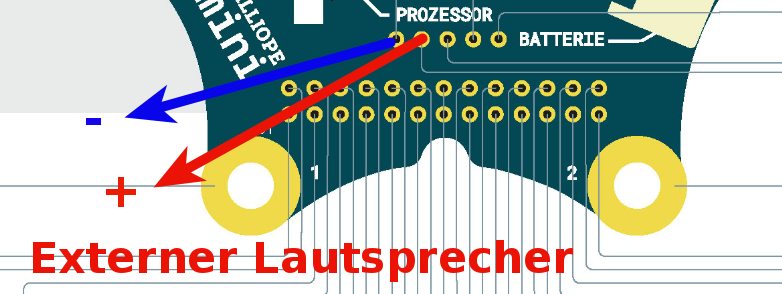
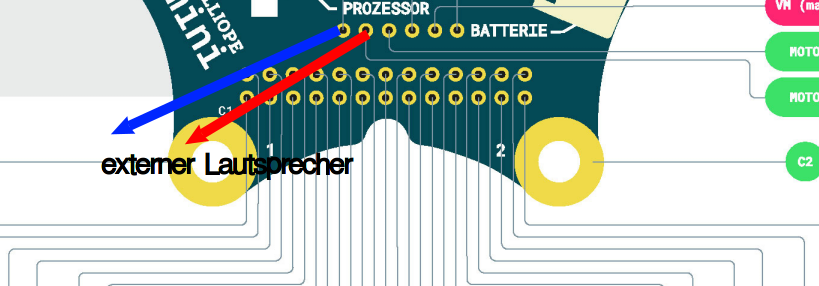
Vorbereitung Tag 5

diff --git a/08_Tag5/08_01_Auffrischen/README.md b/08_Tag5/08_01_Auffrischen/README.md
@@ -117,7 +117,7 @@ Wenn wir diese Schleife benutzen und unser Programm entsprechend umgestalten, si
 * Seht Ihr einen Unterschied?
 
 
-## Warum diese Änderung 
+## Warum diese Aenderung 
 
 * Wir sehen kaum einen Unterschied
 * Aber wir haben nur 25 anstatt 255 Schleifendurchläufe
@@ -143,7 +143,7 @@ Wenn wir diese Schleife benutzen und unser Programm entsprechend umgestalten, si
 
 
 
-# Hausaufgabe 2 : Display füllen
+# Hausaufgabe 2 : Display fuellen
 
 ## Zeichen X Wert Y Wert 
 
@@ -186,7 +186,7 @@ Damit kann man einzelne LEDs auf unserem 5 x 5 LED-Bildschirm einschalten.
 
 * Auch hier wieder - wie oft beim Programmieren : es geht bei 0 los !
 
-## Eine Zeile füllen  
+## Eine Zeile fuellen  
 
 * Nun beschränken wir uns also auf eine Zeile in unserer LED-Anzeige
 * Wir zeichnen einen Punkt nach dem anderen
@@ -214,7 +214,7 @@ Damit kann man einzelne LEDs auf unserem 5 x 5 LED-Bildschirm einschalten.
 
 
 
-## Nächster Versuch, Ganzer Bildschirm
+## Naechster Versuch, Ganzer Bildschirm
 
 * Nun können wir also mit einer Schleife eine Zeile füllen, durch die Index-Schleife wird die Zeile __spaltenweise__ gefüllt
 * Wir wollen aber immnoch den ganzen Bildschirm einzeln mit LEDs füllen.
@@ -243,14 +243,14 @@ Damit kann man einzelne LEDs auf unserem 5 x 5 LED-Bildschirm einschalten.
 
 
 
-## Fünf fast identische Codestücke
+## Fuenf fast identische Codestuecke
 
 Was wir aber immer noch haben, sind 5 fast gleich aussehende Schleifen.  Und diese 5-fache Wiederholung wollen wir nun durch eine zweite, verschachtelte Schleife ersetzen.
 
 ![ Zwei verschachtelte Schleifen](./pics/05_ZweiVerschachtelteSchleifen.png){height=60%}
 
  
-## "Böser" Auftrag-Geber 
+## "Boeser" Auftrag-Geber 
 
 \colA{6cm}
 
@@ -264,7 +264,7 @@ Nehmt an, Ihr hättet die Schleife noch nicht kennengelernt, und hättet die Auf
 \colEnd
 
 
-## "Böser" Auftrag-Geber 2
+## "Boeser" Auftrag-Geber 2
 
 Nun kommt der Auftrag-Geber und möchte nun doch lieber anstatt zeilenweise den Bildschirm zu füllen, diesen spaltenweise gefüllt haben.
 
@@ -275,15 +275,8 @@ Wollt Ihr es versuchen?
  
  Ich würde lieber die Variante mit den Schleifen nehmen und dort nur die zwei Schleifen bzw die beiden Index-Variable vertauschen!
  
-## "Böser" Auftrag-Geber 3
+## "Boeser" Auftrag-Geber 3
 
 ![ Zwei verschachtelte Schleifen](./pics/06_ZweiVerschachtelteSchleifen.png){height=60%}
  
-
-
-## Lizenz/Copyright-Info
-Für alle Bilder auf diesen Folien/Seiten gilt:
-
-* Autor: Jörg Künstner
-* Lizenz: CC BY-SA 4.0
 

diff --git a/08_Tag5/08_05_ExternerLautsprecher/README.md b/08_Tag5/08_05_ExternerLautsprecher/README.md
@@ -28,25 +28,25 @@ Diese zusätzliche Batterie
 Die zusätzliche Batterie wird an den beiden rechten Pins angeschlossen, ganz aussen Plus, daneben Minus.
 
 Auf dem offiziellen Bild des Calliope sieht man das ganz gut:
- 
+
 Quelle Bild nächste Seite : 
 
-https://calliope-mini.github.io/assets/v10/img/Calliope_mini_1.0_pinout_fin.jpg:
- 
+https://calliope-mini.github.io/assets/v10/img/Calliope_mini_1.3_pinout_fin.jpg:
+
 ## Offizielles Bild  
 
-![](pics/Calliope_mini_1.0_pinout_fin.jpg){height=95%}
+![](pics/Calliope_mini_1.3_pinout_fin.jpg){height=95%}
 
 ## Detail-Auschnitt
- 
- Hier nochmal ein Ausschnitt daraus, mit den Anschlüssen farbig gekennzeihnet:
+
+ Hier nochmal ein Ausschnitt daraus, mit den Anschlüssen für die Batterie farbig gekennzeihnet:
 
  ![Ausschnitt ](pics/01_ZusatzBatterie.png){height=60%}
- 
+
 ## Und in Betrieb
 
 In Betrieb sieht das dann so aus:
- 
+
 ![Anschluss Calliope](pics/Anschluss_Calliope.jpg){height=60%}
 
 
@@ -55,7 +55,7 @@ In Betrieb sieht das dann so aus:
 Der eingebaute Lautsprecher am Calliope ist schon sehr klein und sehr leise.  
 
 An die Leiste kann man auch einen externen Lautsprecher anschliessen.
- 
+
 Dabei kann man entweder einen kleinen, sogenannten Passiv-Lautsprecher anschliessen, dieser braucht keine zusätzliche Stromversorgung.
 
 Oder aber man kann einen sogenannten Aktiv-Lautsprecher anschliessen, das sind die Lautsprecher, wie man sie auch von Computern kennt, diese haben eine zusätzliche Strom-Versorgung.
@@ -63,7 +63,7 @@ Oder aber man kann einen sogenannten Aktiv-Lautsprecher anschliessen, das sind d
 ## Ein alter Passiv-Lautsprecher
 
 ![Lautsprecher](pics/03_Lautsprecher.png){height=60%}
-   
+
 
 ## Klinken-Anschluss
 
@@ -88,14 +88,5 @@ Anschluss auf dem offiziellen Calliope-Schaltbild:
 __ACHTUNG__ :  
 
 Da der Lautsprecher die gleichen Anschlüsse wie die Motoren verwendet, kann man nicht beides gleichzetig in einem Programm machen. Man muss sich also entscheiden, ob man mit seinem Calliope Musik abspielen will, oder ob man Motoren ansteuern will.
- 
 
 
-
-## Lizenz/Copyright-Info
-Für alle Bilder auf diesen Folien/Seiten gilt:
-
-* Autor: Jörg Künstner
-* Lizenz: CC BY-SA 4.0
-
- 

diff --git a/08_Tag5/README.md b/08_Tag5/README.md
@@ -16,7 +16,7 @@ Um den Motor durch Kippen des Calliope ansteuern zu können, betrachten wir noch
 
 Dann schauen wir, wie wir Informationen zwischen zwei Calliopes via Kurzstrecken-Funk austauschen können 
 
-Und schlussendlich lernen wir noch, wir die Eltern oder Geschwister  etwas ärgern können :-) :  
+Und schlussendlich lernen wir noch, wie wir die Eltern oder Geschwister etwas ärgern können :-) :  
 Wir lernen, wie man einen externen Lautsprecher an den Calliope anschliessen kann, so dass alle unsere musikalischen Experimente die ganze Familie beschallen...
 
 
@@ -28,11 +28,4 @@ Wir lernen, wie man einen externen Lautsprecher an den Calliope anschliessen kan
 * [04 Funkübertragung](08_04_Funkuebertragung/index.html)
 * [05 Externer Lautsprecher](08_05_ExternerLautsprecher/index.html)
 
-
-
-
-## Navigation
-
-* [Zurück zu Tag 4 Hausuafgaben (Schleifen)](../07_Tag4_Nachlese/index.html)
-* [Hoch zur Übersicht](../index.html)
 

diff --git a/08_Tag5/08_02_Motoren_Auffrischen/README.md b/08_Tag5/08_02_Motoren_Auffrischen/README.md
@@ -11,10 +11,10 @@ Je nach Verwendungszweck kann man an den Calliope entweder
 So sehen die beiden Möglichkeiten zum Anschluss von zwei oder einem Motor aus:
 
 ## Zwei Motoren
-![](./pics/Calliope_mini_1.0_pinout_fin_2Mot.jpg){height=90%}
+![](./pics/Calliope_mini_1.3_pinout_fin_2Mot.jpg){height=90%}
 
 ## Ein Motor
-![](./pics/Calliope_mini_1.0_pinout_fin_1Mot.jpg){height=90%}
+![](./pics/Calliope_mini_1.3_pinout_fin_1Mot.jpg){height=90%}
 
 ## Motor-Programmierung für Calliope
 
@@ -56,13 +56,5 @@ Also müssen wir das Programm auf den Calliope runterladen und dort ausprobieren
 
 ## Zusätzliche Batterie 
 
-![](./pics/Calliope_mini_1.0_pinout_fin_1Mot_Batt.jpg){height=90%}
+![](./pics/Calliope_mini_1.3_pinout_fin_1Mot.jpg){height=90%}
 
-## Lizenz/Copyright-Info
-
-Für alle Bilder auf diesen Folien/Seiten gilt:
-
-* Autor: Jörg Künstner
-* Lizenz: CC BY-SA 4.0
-
- 

diff --git a/08_Tag5/ENDE.md b/08_Tag5/ENDE.md
@@ -1,0 +1,18 @@
+
+
+
+
+## Navigation
+
+* [Zurück zu Tag 4 Hausuafgaben (Schleifen)](../07_Tag4_Nachlese/index.html)
+* [Hoch zur Übersicht](../index.html)
+
+
+
+
+## Lizenz/Copyright-Info
+Für alle Bilder auf diesen Folien/Seiten gilt:
+
+* Autor: Jörg Künstner
+* Lizenz: CC BY-SA 4.0
+

diff --git a/08_Tag5/08_03_LageSensor/README.md b/08_Tag5/08_03_LageSensor/README.md
@@ -112,12 +112,3 @@ __Download Hex-Code__
 [Hex-code](code/mini-DC_Motor_LageSensoren.hex)
 
 
-
-
-## Lizenz/Copyright-Info
-Für alle Bilder auf diesen Folien/Seiten gilt:
-
-* Autor: Jörg Künstner
-* Lizenz: CC BY-SA 4.0
-
- 

diff --git a/08_Tag5/08_04_Funkuebertragung/README.md b/08_Tag5/08_04_Funkuebertragung/README.md
@@ -222,13 +222,3 @@ Mögliche Lösung
 
  ![](pics/Selection_016.png){height=80%}
 
-
-
-## Lizenz / Copyright
-
-Für alle Bilder auf diesen Folien/Seiten gilt:
-
-* Autor: Jörg Künstner
-* Lizenz: CC BY-SA 4.0
-
- 
